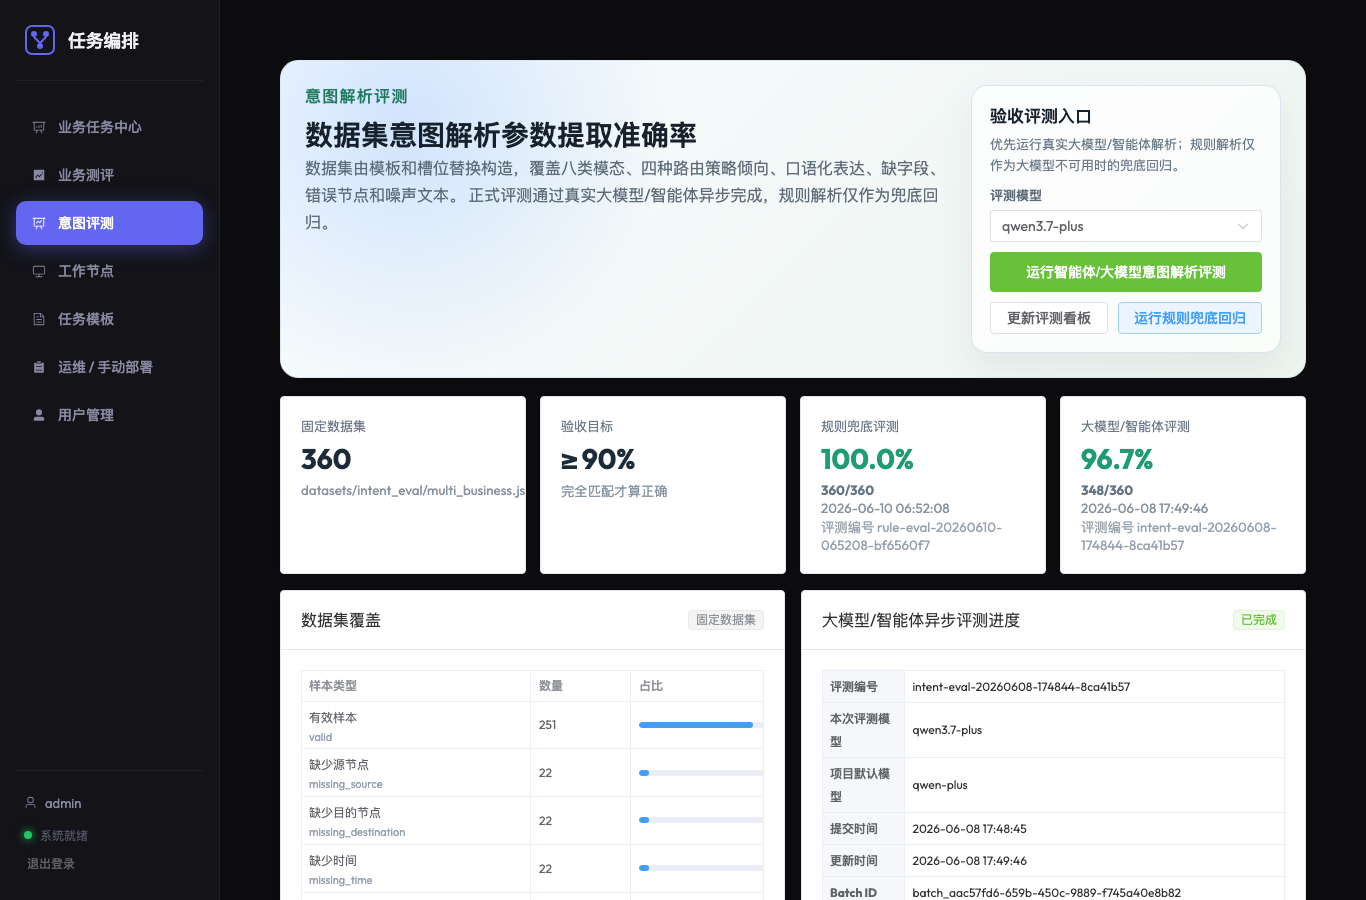
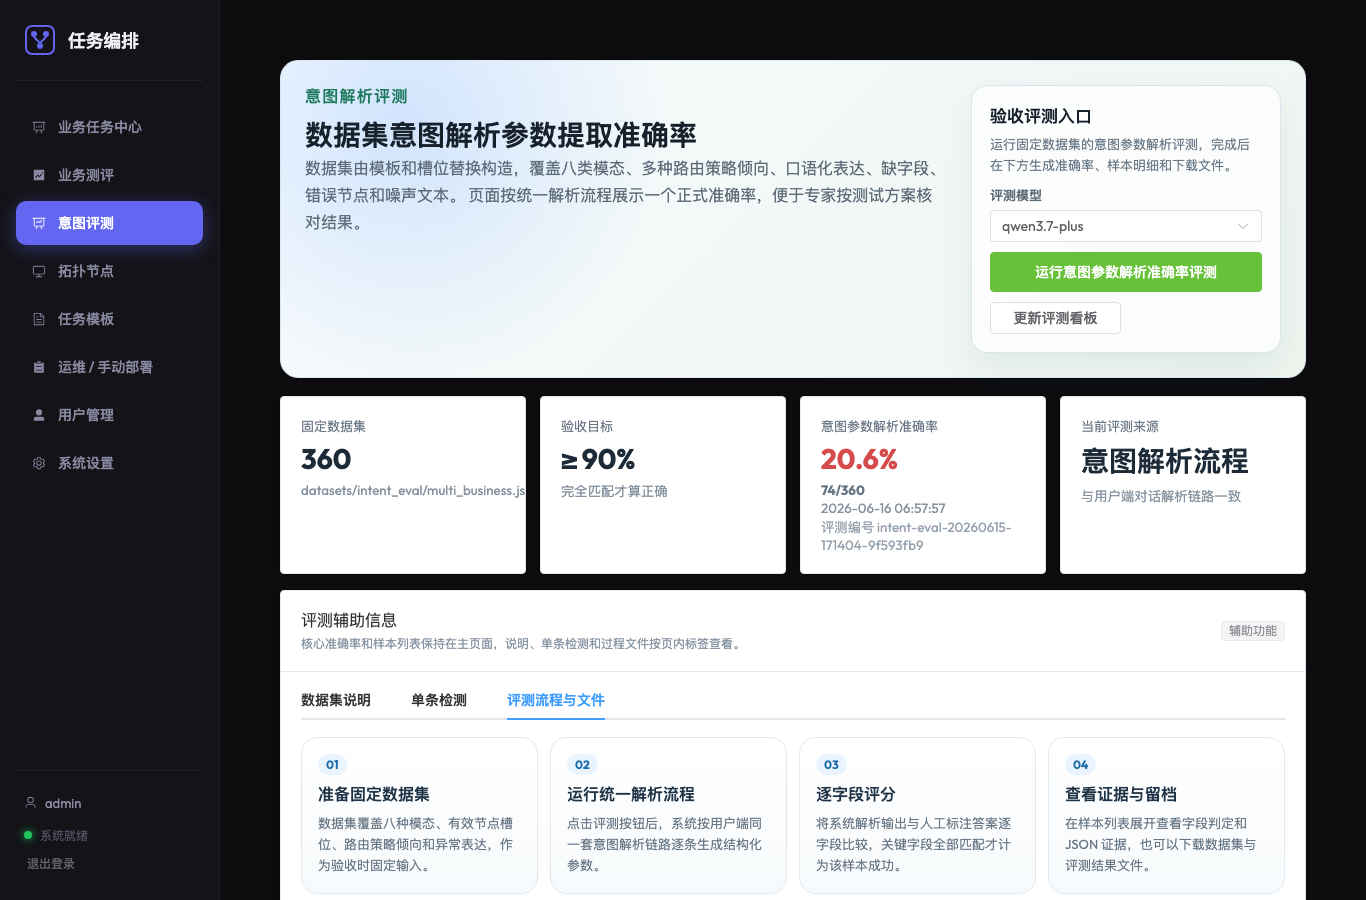
docs: refresh deployment handoff screenshots

diff --git a/docs/agents/deployer.md b/docs/agents/deployer.md
@@ -4,111 +4,106 @@
 
 多节点运维：代码部署、镜像分发、节点注册、健康检查、端到端测试验证。不写业务代码。
 
+拓扑和 SSH 别名见 `docs/deployment/test-lab.md`。敏感信息不写入仓库。
+
 ## 标准部署流程
 
-代码变更后必须按此流程更新远端，不能只在本机测试：
+代码变更后必须先在本地验证、提交并推送，再更新管理节点。当前管理节点 `/home/bupt/manage_deploy` 可能是 Git 仓库，也可能是手工同步目录；部署前先判断：
 
 ```bash
-# 1. 推送代码
+ssh manage-admin "cd /home/bupt/manage_deploy && git status --short"
+```
+
+如果返回 `not a git repository`，说明远端是手工同步目录，不要继续执行 `git pull`。
+
+### 方式 A：远端是 Git 仓库
+
+```bash
 git push origin main
-
-# 2. admin-server 拉取最新代码
 ssh manage-admin "cd /home/bupt/manage_deploy && git pull"
+```
 
-# 3. 重启后端（必须等待 5 秒再验证）
-ssh manage-admin "pkill -f 'uvicorn main:app' 2>/dev/null; sleep 1; cd /home/bupt/manage_deploy/backend && nohup /home/bupt/miniconda3/envs/manage_deploy/bin/uvicorn main:app --host 0.0.0.0 --port 8181 > /tmp/manage_deploy_backend.log 2>&1 &"
+### 方式 B：远端是手工同步目录
+
+优先用 `git archive` 或受控 `rsync` 同步已提交版本，避免把本地数据库、`.env`、虚拟环境、缓存和运行产物带到远端。
+
+```bash
+# 示例：用当前 HEAD 生成干净源码包并解包到管理节点
+git archive --format=tar --output=/tmp/manage_deploy-main.tar HEAD
+scp /tmp/manage_deploy-main.tar manage-admin:/tmp/manage_deploy-main.tar
+ssh manage-admin "cd /home/bupt/manage_deploy && tar -xf /tmp/manage_deploy-main.tar && rm -f /tmp/manage_deploy-main.tar"
+
+# 前端静态产物单独同步
+cd frontend && npm run build
+cd ..
+rsync -az --delete frontend/dist/ manage-admin:/home/bupt/manage_deploy/frontend/dist/
+```
+
+## 后端重启与验证
+
+管理节点后端当前使用 `/home/bupt/miniconda3/bin/python3.13` 启动，监听 `8181`。不要使用历史遗留的 `backend/venv` 或不存在的 conda env。
+
+```bash
+ssh manage-admin "pids=\$(pgrep -f '[u]vicorn main:app.*8181' || true); \
+  [ -n \"\$pids\" ] && kill \$pids || true; \
+  sleep 1; \
+  cd /home/bupt/manage_deploy/backend && \
+  nohup /home/bupt/miniconda3/bin/python3.13 -m uvicorn main:app \
+    --host 0.0.0.0 --port 8181 > /tmp/manage_deploy_backend.log 2>&1 < /dev/null &"
+
 sleep 5
-ssh manage-admin "curl -s http://localhost:8181/api/nodes | python3 -c 'import sys,json; print(len(json.load(sys.stdin)), \"nodes\")'"
-
-# 4. 如果 worker 代码有改动，重建并推送镜像
-cd workers
-docker build -f high-throughput-matmul/Dockerfile -t 10.112.244.94:5000/scientific-matmul:dev .
-docker push 10.112.244.94:5000/scientific-matmul:dev
+ssh manage-admin "curl -sS http://127.0.0.1:8181/api/nodes | python3 -c 'import sys,json; print(len(json.load(sys.stdin)), \"nodes\")'"
+ssh manage-admin "curl -sS http://127.0.0.1:8182/ | grep -o 'assets/index-[^\"<>]*' | head"
 ```
 
-拓扑和 SSH 别名见 `docs/deployment/test-lab.md`。
+如果后端没有启动，先看 `/tmp/manage_deploy_backend.log`，不要反复盲重启。
 
-## 能力范围
+## 外部路由联调烟测
 
-- SSH 批量运维（别名 manage-admin / manage-compute-1/2/3）
-- 镜像分发到私有 registry `10.112.244.94:5000`
-- 节点注册验证（`GET /api/nodes`）
-- 清理残留容器（`DELETE /containers/{task_id}/{node_id}` via Node Agent）
-- 健康检查：`curl http://{node_ip}:8001/health`
-
-## 测试后清理
+平台仓库提供最小 mock 路由器，只用于证明接口链路可用，不替代路由算法。
 
 ```bash
-# 查看残留容器
-curl -s http://10.112.249.191:8001/containers/managed
-# 删除残留
-curl -X DELETE http://10.112.249.191:8001/containers/{task_id}/{node_id}
+ssh manage-admin "cd /home/bupt/manage_deploy && \
+  python3 scripts/mock_external_router.py \
+    --base-url http://127.0.0.1:8181 \
+    --limit 1 \
+    --task-type low_latency_video_pipeline \
+    --compute-nodes compute-1 \
+    --gpu-device 0"
 ```
 
-## 禁止
+成功时应看到 `routing_status=network_binding_ready`、`network_bindings` 和随后 `network-ready` 返回 `routing_status=completed`。
 
-- 不修改业务代码
-- 不在节点上执行 `docker system prune`、`rm -rf` 等破坏性操作
-- 不把 SSH 密码写入 git tracked 文件
+## Worker 镜像
 
-
-## 角色
-
-多节点运维：批量部署 node_agent、镜像分发、节点注册、健康检查。不写业务代码。
-
-## 能力范围
-
-### SSH 批量运维
-- 使用 Fabric / Ansible / Paramiko 批量登录目标机器
-- 统一安装 node_agent（拉取镜像或 scp 二进制）
-- 检查并修复节点环境（Docker、GPU 驱动、网络）
-
-### 镜像分发
-- 推送镜像到私有 registry（`10.112.244.94:5000` 或配置的地址）
-- 或通过 SSH 直接 `docker save | ssh | docker load`
-- 验证目标机器能拉取到正确镜像
-
-### 节点注册
-- 确认 node_agent 启动后向 backend 注册（`POST /api/nodes`）
-- 验证 `GET /api/nodes` 返回所有预期节点
-- 检查 `is_schedulable`、`is_routable` 字段正确
-
-### 健康检查
-- `curl http://{node_ip}:{agent_port}/health`
-- 检查 GPU 可用性（`nvidia-smi`）
-- 检查网络互通（source ↔ compute ↔ sink）
-
-## 目标机器清单
-
-见 `docs/deployment/test-lab.md`（不含密码，密码通过环境变量或 SSH key 传入）
-
-## 常用命令
+只有业务 worker、Node Agent 或 Dockerfile 改动时，才需要重新构建并推送镜像。
 
 ```bash
-# 检查所有节点状态
-curl -sS http://127.0.0.1:8000/api/nodes | python3 -m json.tool
-
-# 批量 SSH 检查（示例，实际地址见 test-lab.md）
-for host in compute-1 compute-2 compute-3; do
-  ssh $host "docker ps && nvidia-smi -L" 2>&1 | head -5
-done
-
-# 构建并推送 worker 镜像
+WORKER_KIND=matmul \
+WORKER_IMAGE=10.112.244.94:5000/scientific-matmul \
+WORKER_TAG=dev \
+WORKER_PLATFORM=linux/amd64 \
+WORKER_PUSH=1 \
 ./scripts/build_workers.sh
 
-# 重建 matmul 模板
-PYTHONPATH=backend backend/venv/bin/python backend/scripts/rebuild_matmul_template.py
+WORKER_KIND=video \
+WORKER_IMAGE=10.112.244.94:5000/low-latency-video \
+WORKER_TAG=dev \
+WORKER_PLATFORM=linux/amd64 \
+WORKER_PUSH=1 \
+./scripts/build_workers.sh
 ```
 
-## 失败处理
+## 能力范围
 
-- 节点无法连接 → 检查 SSH key、防火墙、VPN
-- 镜像拉取失败 → 检查 registry 地址、认证
-- node_agent 注册失败 → 检查 backend URL、token 配置
-- GPU 不可见 → 检查 nvidia-container-toolkit 安装
+- SSH 批量运维，常用别名包括 `manage-admin`、`manage-compute-1/2/3`。
+- 镜像分发到私有 registry `10.112.244.94:5000`。
+- 节点注册验证：`GET /api/nodes`。
+- Node Agent 健康检查：`curl http://{node_ip}:8001/health`。
+- 残留容器检查和清理，清理前必须确认不会影响正在运行的业务。
 
 ## 禁止
 
-- 不修改业务代码
-- 不在生产节点上做破坏性操作（rm -rf、docker system prune）未经确认
-- 不把 SSH 密码写入任何 git tracked 文件
+- 不修改业务代码。
+- 不在节点上执行 `docker system prune`、`rm -rf` 等破坏性操作，除非用户明确批准。
+- 不把 SSH 密码、sudo 密码、token、私钥写入任何 git tracked 文件。

diff --git a/docs/智联计算系统使用说明书.md b/docs/智联计算系统使用说明书.md
@@ -117,3 +117,5 @@
 | `usage-intent-evaluation-sample-detail.jpg` | 样本展开后的字段判定证据 |
 | `usage-topology-nodes.jpg` | 拓扑节点卡片、资源属性和节点别名 |
 | `usage-system-settings.jpg` | 系统设置、模态优先级和任务资源要求 |
+
+测试方案截图位于 `docs/assets/evaluation-plan/`。其中 `system-settings-runtime-mode.png` 用于保留当前系统设置页的运行模式、路由模式、DAG 展示开关、模态优先级和资源要求配置截图，便于后续写入测试方案或汇报材料。